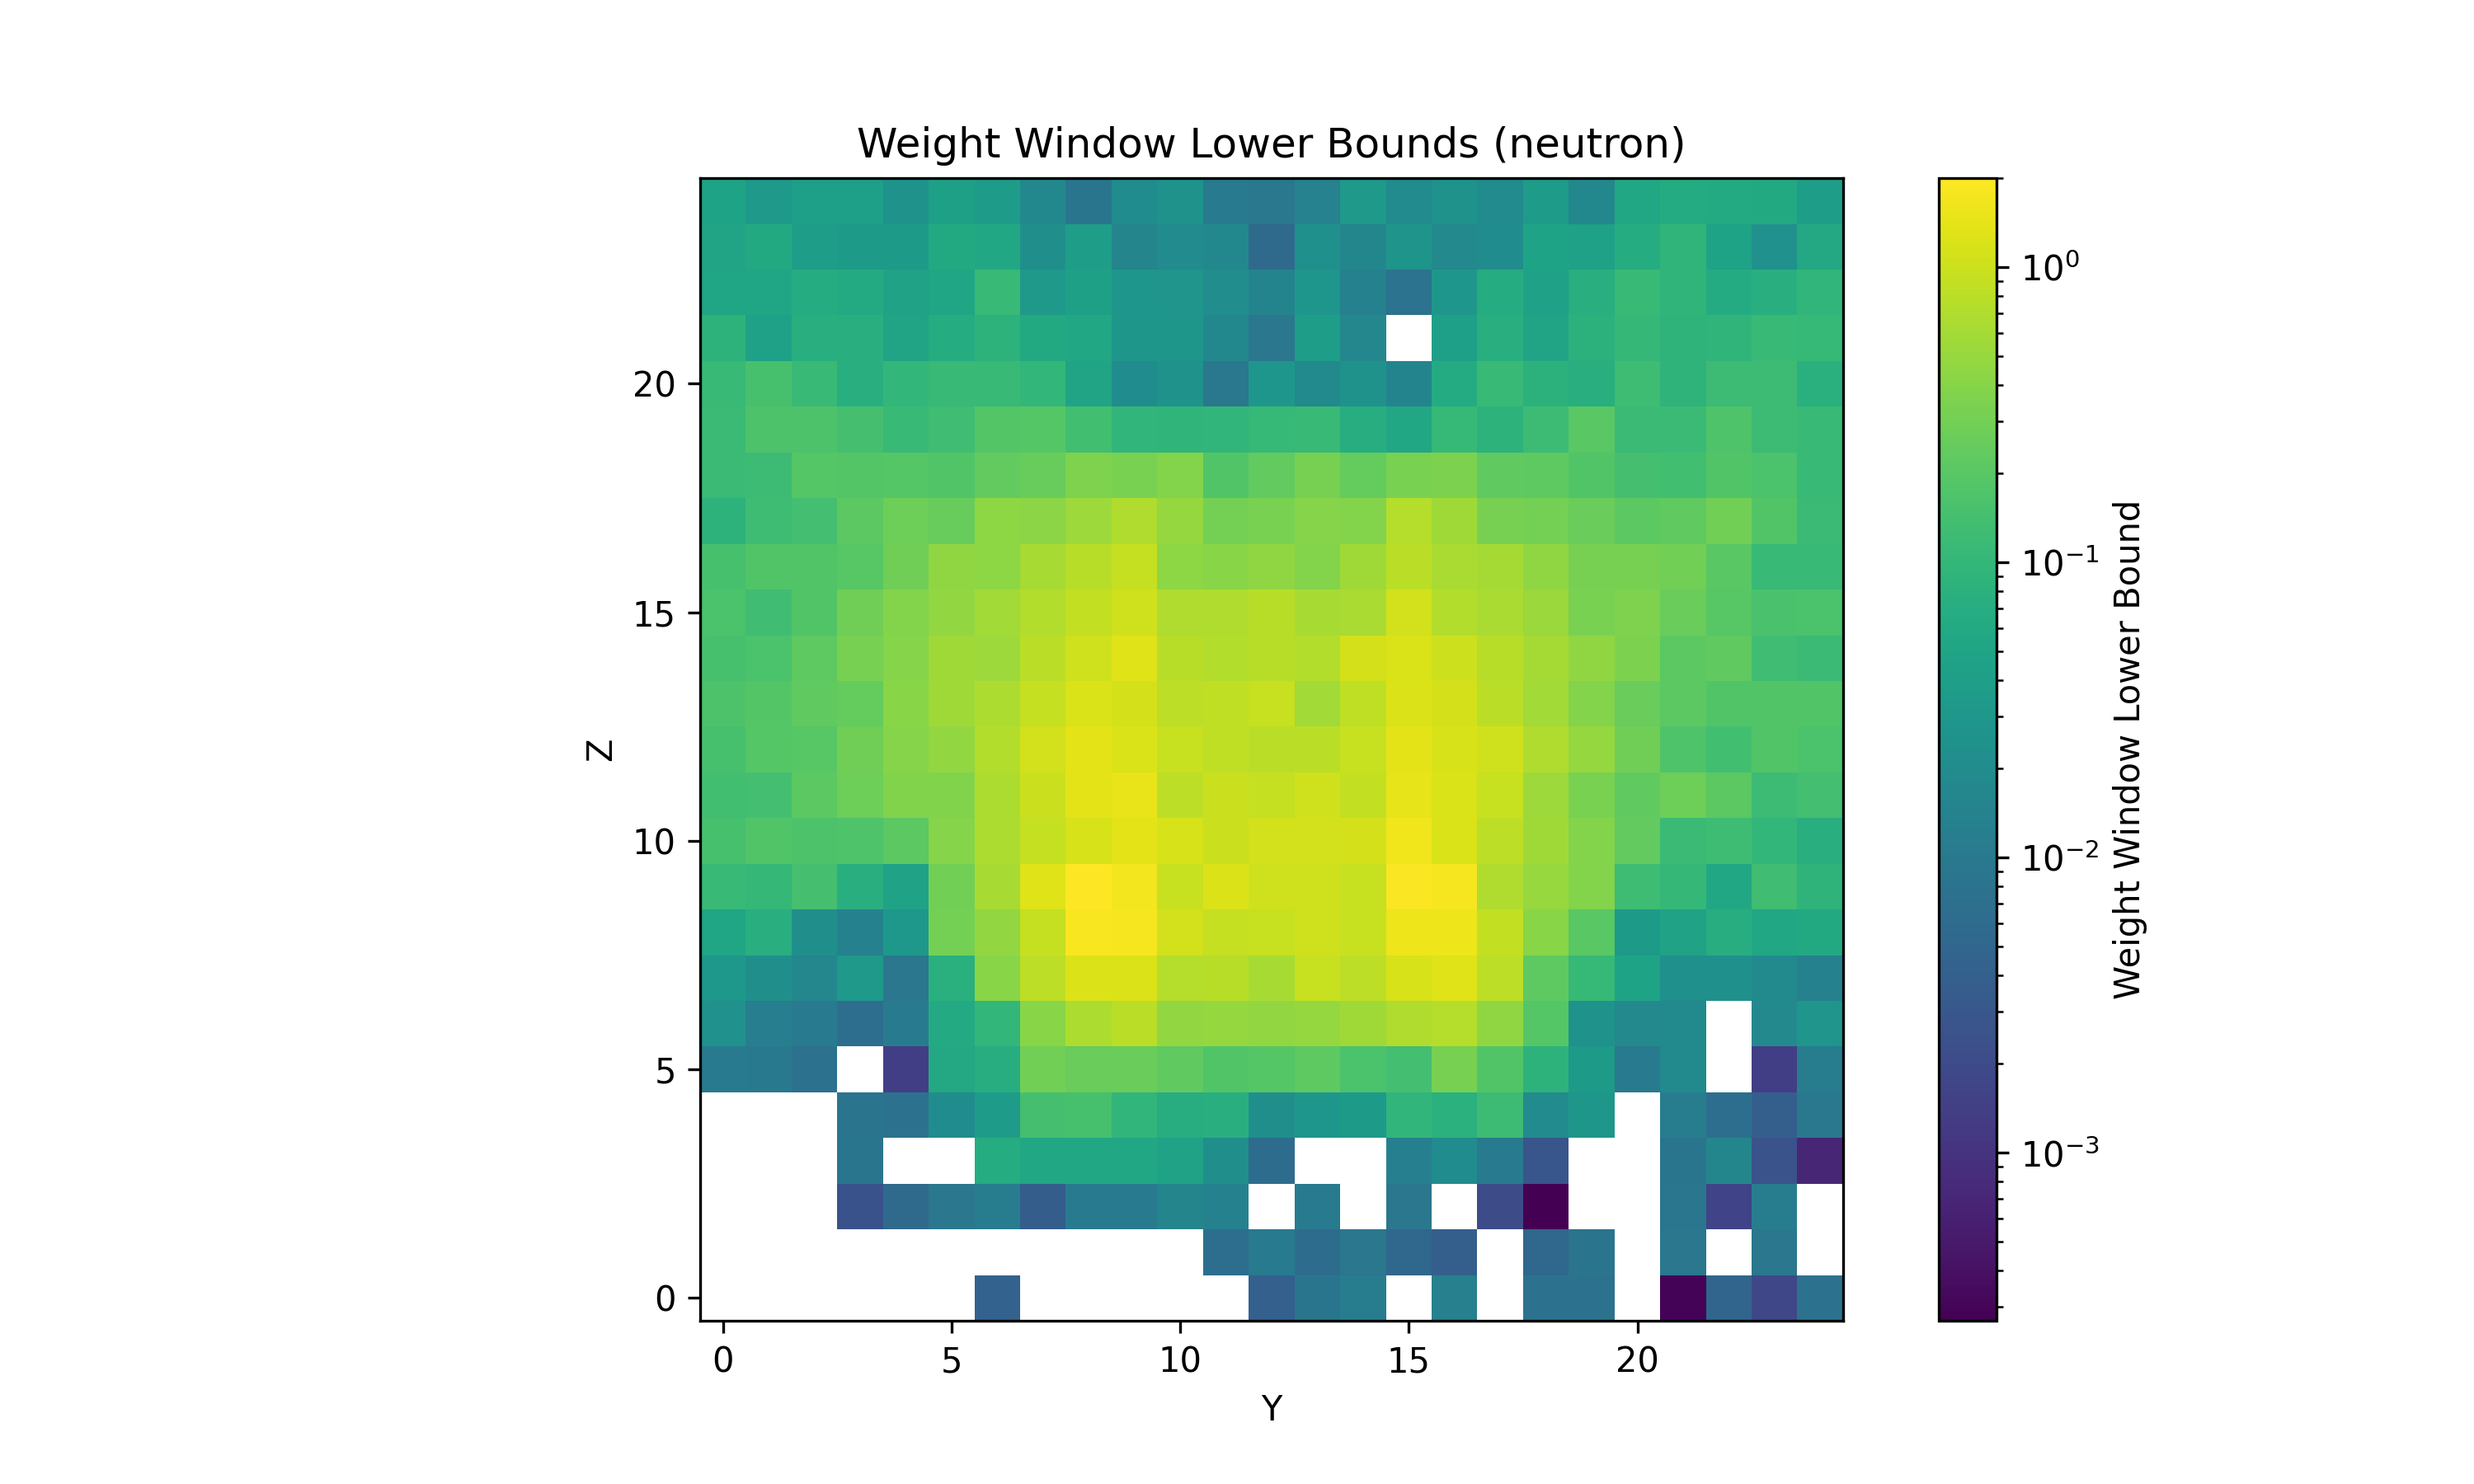
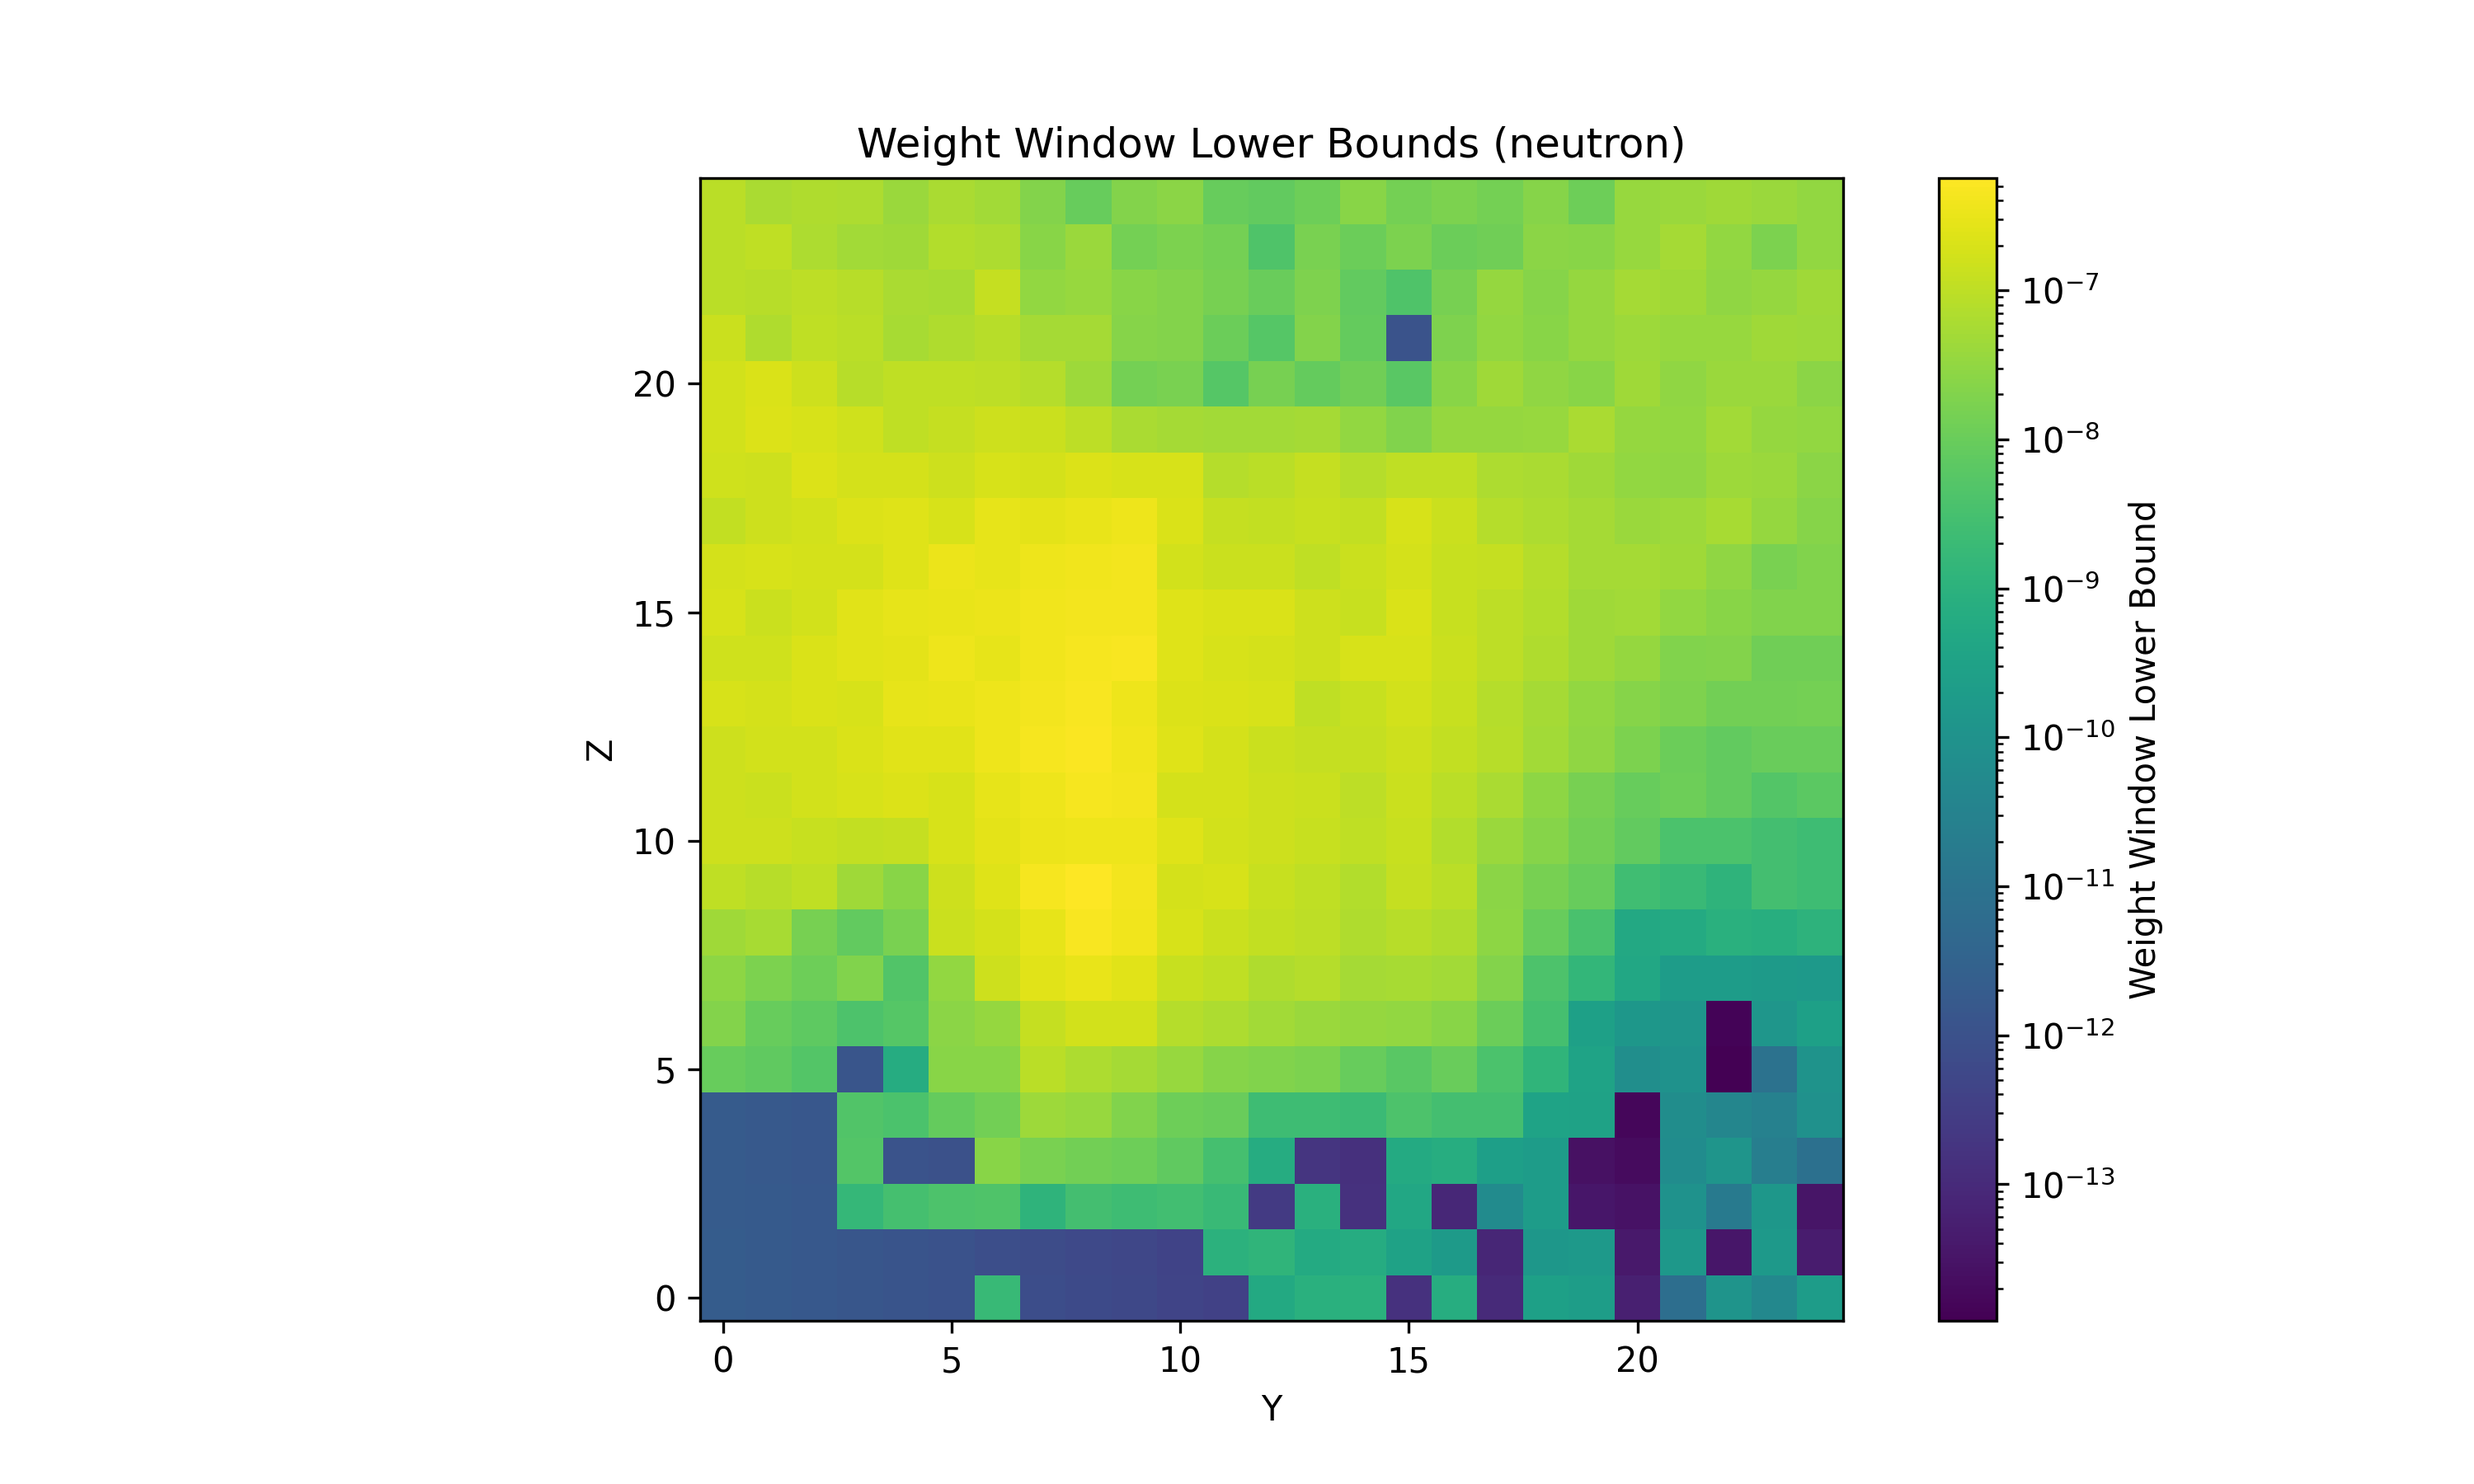
fix:fix_photon_ww

diff --git a/src/utils/weight_window/weight_window.py b/src/utils/weight_window/weight_window.py
@@ -112,12 +112,9 @@ def get_ww_size(weight_windows:list, particule_type:str = "neutron") -> tuple:
     """
     for wwg in weight_windows:
         if wwg.particle_type == particule_type:
-            particle_type = wwg.particle_type
             size = wwg.lower_ww_bounds.shape[:-1]
             ww_sizes = size
     return ww_sizes
-
-
 
 def remove_zeros_from_ww(weight_windows:list) -> list:
     """
@@ -133,12 +130,14 @@ def remove_zeros_from_ww(weight_windows:list) -> list:
     for wwg in weight_windows:
         for index_energy in range(wwg.lower_ww_bounds.shape[-1]):
             current_slice = wwg.lower_ww_bounds[:, :, :, index_energy]
-            min_nonzero = np.min(current_slice[current_slice > 0])
-            current_slice[current_slice <= 0] = min_nonzero
-            wwg.lower_ww_bounds[:, :, :, index_energy] = current_slice
+            if np.sum(current_slice) != 0:
+                min_nonzero = np.min(current_slice[current_slice > 0])
+                current_slice[current_slice <= 0] = min_nonzero
+                wwg.lower_ww_bounds[:, :, :, index_energy] = current_slice
 
             current_slice_upper = wwg.upper_ww_bounds[:, :, :, index_energy]
-            min_nonzero_upper = np.min(current_slice_upper[current_slice_upper > 0])
-            current_slice_upper[current_slice_upper <= 0] = min_nonzero_upper
-            wwg.upper_ww_bounds[:, :, :, index_energy] = current_slice_upper
+            if np.sum(current_slice_upper) != 0:
+                min_nonzero_upper = np.min(current_slice_upper[current_slice_upper > 0])
+                current_slice_upper[current_slice_upper <= 0] = min_nonzero_upper
+                wwg.upper_ww_bounds[:, :, :, index_energy] = current_slice_upper
     return weight_windows

diff --git a/src/studies/weight_window/remove_zeros.py b/src/studies/weight_window/remove_zeros.py
@@ -27,18 +27,14 @@ def remove_zeros_from_ww(weight_windows:list) -> list:
     for wwg in weight_windows:
         for index_energy in range(wwg.lower_ww_bounds.shape[-1]):
             current_slice = wwg.lower_ww_bounds[:, :, :, index_energy]
-            positive_values = current_slice[current_slice > 0]
-            if positive_values.size > 0:
-                min_nonzero = np.min(positive_values)
-                current_slice[current_slice <= 0] = min_nonzero
-                wwg.lower_ww_bounds[:, :, :, index_energy] = current_slice
-            # Repeat for upper bounds
+            min_nonzero = np.min(current_slice[current_slice > 0])
+            current_slice[current_slice <= 0] = min_nonzero
+            wwg.lower_ww_bounds[:, :, :, index_energy] = current_slice
+
             current_slice_upper = wwg.upper_ww_bounds[:, :, :, index_energy]
-            positive_values_upper = current_slice_upper[current_slice_upper > 0]
-            if positive_values_upper.size > 0:
-                min_nonzero_upper = np.min(positive_values_upper)
-                current_slice_upper[current_slice_upper <= 0] = min_nonzero_upper
-                wwg.upper_ww_bounds[:, :, :, index_energy] = current_slice_upper
+            min_nonzero_upper = np.min(current_slice_upper[current_slice_upper > 0])
+            current_slice_upper[current_slice_upper <= 0] = min_nonzero_upper
+            wwg.upper_ww_bounds[:, :, :, index_energy] = current_slice_upper
     return weight_windows
 
 ww_with_zeros_removed = remove_zeros_from_ww(weight_windows=ww)

diff --git a/src/studies/reactor_study/secondary_source/source_using_weight_window/wwg_creation/wwg_creation_by_itteration/wwg_creation_with_itteration.py b/src/studies/reactor_study/secondary_source/source_using_weight_window/wwg_creation/wwg_creation_by_itteration/wwg_creation_with_itteration.py
@@ -10,6 +10,7 @@ from PIL import Image
 import numpy as np
 from copy import deepcopy
 
+
 CWD = Path(__file__).parent.resolve()
 
 project_root = Path(__file__).resolve().parents[7]  
@@ -24,6 +25,8 @@ os.environ["OPENMC_CROSS_SECTIONS"] = PATH_TO_CROSS_SECTIONS
 from src.models.model_complete_reactor import MODEL, GRAPHITE_CELL, CALCULATION_CELL
 
 divide_factor_list = [10, 8, 6, 4, 2]
+divide_factor_list = [10, 8, 6, 4]
+
 start_time = time.time()
 
 for itteration_number, divide_factor in enumerate(divide_factor_list):
@@ -42,7 +45,7 @@ for itteration_number, divide_factor in enumerate(divide_factor_list):
     batches_number= 1
     settings.batches = batches_number
     settings.inactive = 0
-    settings.particles = 1000000 # try more
+    settings.particles = 100000 # try more
     settings.source = openmc.FileSource('surface_source.h5')
     settings.photon_transport = True
 
@@ -60,7 +63,7 @@ for itteration_number, divide_factor in enumerate(divide_factor_list):
     mesh.lower_left = (-500.0, -500.0, -500.0)
     mesh.upper_right = (500.0, 500.0, 500.0)
 
-    energy_bounds = np.linspace(0.0, 15e6, 10) 
+    energy_bounds = np.linspace(0.0, 15e6, 2) 
 
     wwg_neutron = openmc.WeightWindowGenerator(
         mesh=mesh,  
@@ -78,6 +81,8 @@ for itteration_number, divide_factor in enumerate(divide_factor_list):
     settings.export_to_xml()
 
     remove_previous_results(batches_number=batches_number)
+    
+    time.sleep(1)
     openmc.run()
 
 end_time = time.time()
